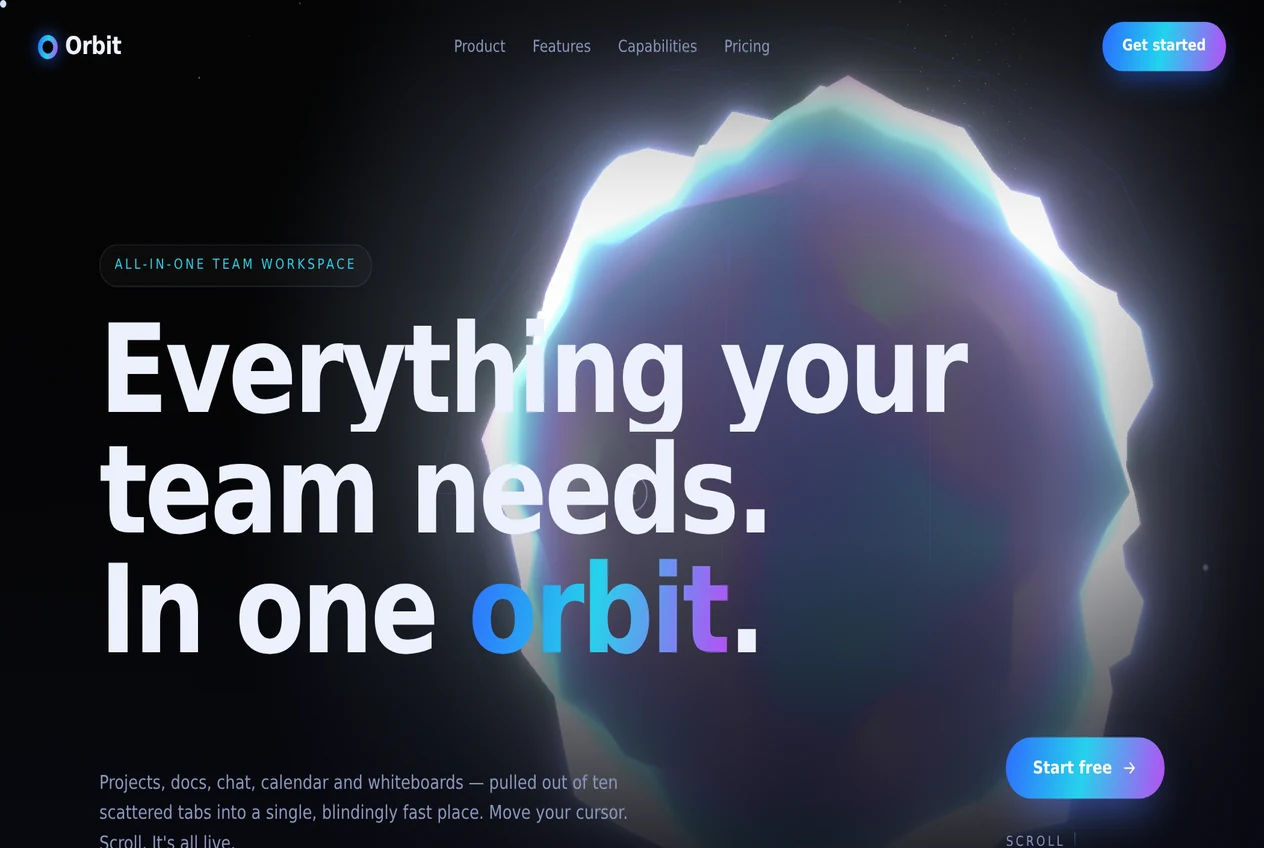
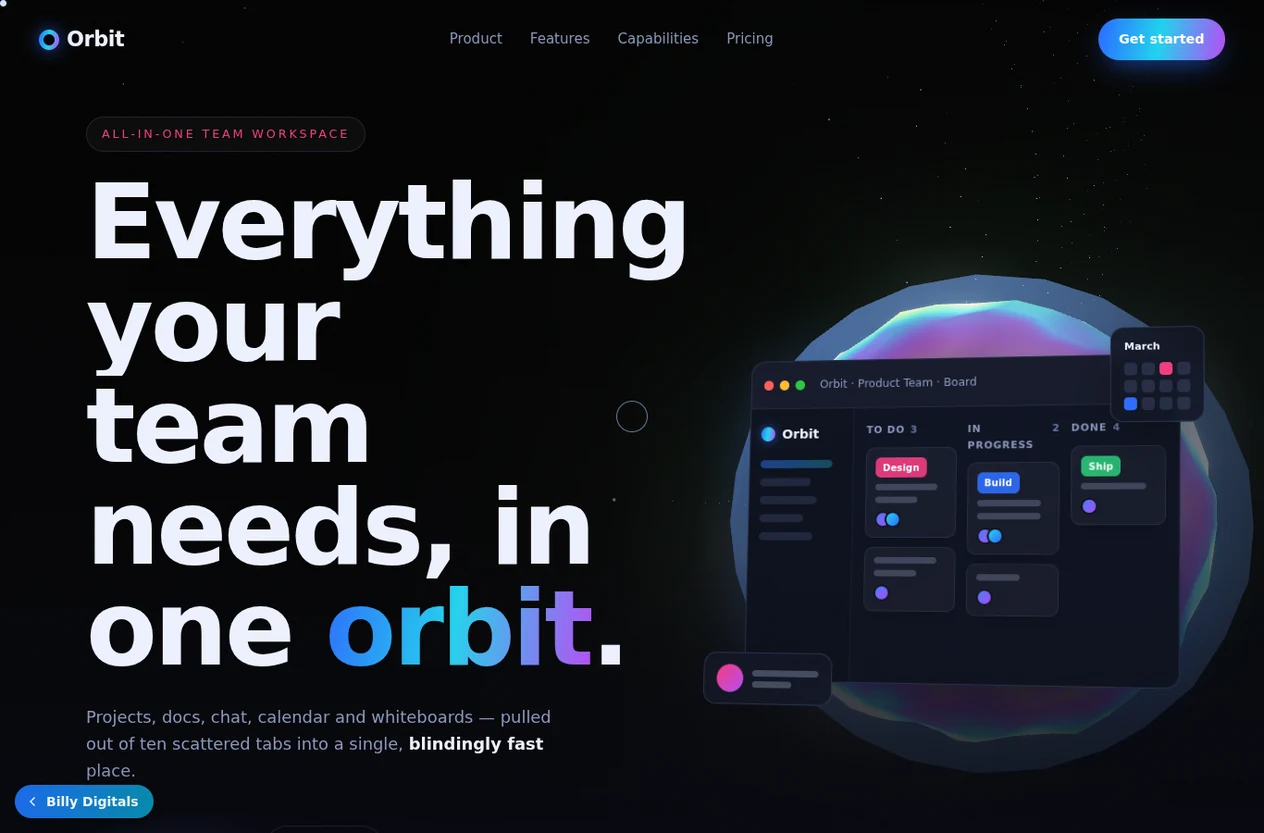
ORBIT hero rebuilt Huly-caliber: pixel-perfect floating product UI (kanban + calendar + chat), magenta accent, 3D core dimmed to ambient product-glow, antialiased

diff --git a/templates/orbit.css b/templates/orbit.css
@@ -5,7 +5,7 @@
 :root{
   --bg:#05060e; --bg2:#080a16; --ink:#eef2ff; --mut:#8a97bd;
   --line:rgba(140,170,255,.14); --card:rgba(255,255,255,.035);
-  --c1:#2b6bff; --c2:#22d3ee; --c3:#b74bf5;
+  --c1:#2b6bff; --c2:#22d3ee; --c3:#b74bf5; --accent:#f5397e;
   --grad:linear-gradient(100deg,var(--c1),var(--c2) 48%,var(--c3));
   --disp:'Space Grotesk',system-ui,sans-serif; --body:'Inter',system-ui,sans-serif;
   --r:18px;
@@ -410,3 +410,94 @@ body::before{content:"";position:fixed;inset:0;z-index:-1;pointer-events:none;
 .orbit-gl{ z-index:1 }        /* the Core sits above the aurora */
 .hero-scrim, .hero-inner{ z-index:2 }
 @media (prefers-reduced-motion:reduce){ .hero::after{ animation:none } }
+
+/* ============================================================
+   HERO REBUILD — Huly-caliber: pixel-perfect product UI lead,
+   magenta accent, refined split layout. The 3D Core is now a
+   quiet ambient glow behind, not a dominating blob.
+   ============================================================ */
+.hero-split{ display:grid; grid-template-columns:1.02fr 1.15fr; align-items:center; gap:clamp(24px,4vw,64px);
+  padding-top:14vh; padding-bottom:8vh; }
+.hero-copy{ position:relative; z-index:3; }
+.hero-eyebrow{ color:var(--accent) !important; }
+.hero-sub{ margin-top:26px; max-width:30em; color:var(--mut); font-size:1.12rem; opacity:0; }
+.hero-sub b{ color:var(--ink); font-weight:600; }
+.hero-actions{ display:flex; align-items:center; gap:16px; margin-top:30px; opacity:0; }
+.hero-ghost{ font-family:var(--disp); font-weight:600; font-size:.95rem; color:var(--ink);
+  padding:13px 22px; border-radius:999px; border:1px solid var(--line); transition:border-color .25s,background .25s; }
+.hero-ghost:hover{ border-color:rgba(160,190,255,.5); background:rgba(255,255,255,.04); }
+.hero-meta{ margin-top:26px; font-size:.9rem; color:var(--mut); display:flex; align-items:center; gap:8px; opacity:0; }
+.hero-meta svg{ width:16px; height:16px; color:#ffd23d; }
+.hero-meta b{ color:var(--ink); font-weight:700; }
+/* keep the intro reveal working: fade these in with the h1 lines */
+.is-in .hero-sub, .is-in .hero-actions, .is-in .hero-meta{ opacity:1; transition:opacity .8s ease .3s; }
+.hero-split .scroll-cue{ position:absolute; left:0; bottom:5vh; z-index:3; }
+
+/* --- the floating pixel-perfect UI --- */
+.hero-ui{ position:relative; z-index:3; perspective:1600px; }
+.hui-win{ position:relative; border-radius:16px; overflow:hidden;
+  background:linear-gradient(180deg,#0c1122,#0a0e1c);
+  border:1px solid rgba(150,180,255,.16);
+  box-shadow:0 50px 120px -40px rgba(0,0,0,.9), 0 0 0 1px rgba(255,255,255,.02) inset,
+             0 0 90px -30px rgba(43,107,255,.5);
+  transform:rotateY(-11deg) rotateX(5deg) rotateZ(.4deg); transform-style:preserve-3d;
+  animation:huiFloat 7s ease-in-out infinite; }
+@keyframes huiFloat{ 0%,100%{ transform:rotateY(-11deg) rotateX(5deg) translateY(0) }
+  50%{ transform:rotateY(-8deg) rotateX(4deg) translateY(-12px) } }
+.hui-bar{ display:flex; align-items:center; gap:7px; padding:12px 14px;
+  background:rgba(255,255,255,.03); border-bottom:1px solid rgba(150,180,255,.1); }
+.hui-bar i{ width:11px; height:11px; border-radius:50%; }
+.hui-bar i:nth-child(1){ background:#ff5f57 } .hui-bar i:nth-child(2){ background:#febc2e } .hui-bar i:nth-child(3){ background:#28c840 }
+.hui-crumb{ margin-left:10px; font-size:.78rem; color:var(--mut); }
+.hui-k{ margin-left:auto; font-size:.72rem; color:var(--mut); padding:4px 9px; border-radius:7px;
+  border:1px solid var(--line); background:rgba(255,255,255,.03); }
+.hui-body{ display:grid; grid-template-columns:118px 1fr; min-height:300px; }
+.hui-side{ padding:16px 12px; border-right:1px solid rgba(150,180,255,.08); display:flex; flex-direction:column; gap:11px; background:rgba(0,0,0,.14); }
+.hui-brand{ display:flex; align-items:center; gap:8px; font-family:var(--disp); font-weight:700; font-size:.92rem; margin-bottom:6px; }
+.hui-brand b{ width:16px; height:16px; border-radius:50%; background:var(--grad); box-shadow:0 0 12px rgba(43,107,255,.7); }
+.hui-nav{ height:9px; border-radius:5px; background:rgba(160,185,255,.13); }
+.hui-nav:nth-child(2){ width:78% } .hui-nav:nth-child(3){ width:62% } .hui-nav:nth-child(4){ width:70% } .hui-nav:nth-child(5){ width:54% } .hui-nav:nth-child(6){ width:66% }
+.hui-nav.on{ width:88%; background:linear-gradient(90deg,rgba(43,107,255,.5),rgba(34,211,238,.3)); }
+.hui-board{ display:grid; grid-template-columns:repeat(3,1fr); gap:12px; padding:16px 14px; }
+.hui-col h6{ font-size:.68rem; text-transform:uppercase; letter-spacing:.08em; color:var(--mut); font-weight:700; margin-bottom:10px; display:flex; gap:6px; }
+.hui-col h6 span{ color:rgba(160,185,255,.6); }
+.hui-card{ background:rgba(255,255,255,.045); border:1px solid rgba(150,180,255,.1); border-radius:10px;
+  padding:10px; margin-bottom:10px; display:flex; flex-direction:column; gap:7px;
+  box-shadow:0 8px 20px -12px rgba(0,0,0,.7); }
+.ct{ align-self:flex-start; font-size:.64rem; font-weight:700; padding:3px 8px; border-radius:6px; color:#fff; letter-spacing:.02em; }
+.ct.pink{ background:rgba(245,57,126,.9) } .ct.blue{ background:rgba(43,107,255,.9) } .ct.green{ background:rgba(40,200,120,.9) }
+.cl{ height:7px; border-radius:4px; background:rgba(200,215,255,.22); }
+.cl.s{ width:60% } .cl:not(.s){ width:88% }
+.cav{ display:flex; margin-top:2px; }
+.cav i{ width:18px; height:18px; border-radius:50%; border:2px solid #0b0f1e; background:linear-gradient(135deg,#4b7bff,#a24bf5); }
+.cav i+i{ margin-left:-7px; background:linear-gradient(135deg,#22d3ee,#2b6bff); }
+/* floating cards for depth */
+.hui-float{ position:absolute; border-radius:14px; padding:12px 14px;
+  background:rgba(14,18,34,.92); border:1px solid rgba(150,180,255,.18);
+  box-shadow:0 30px 70px -24px rgba(0,0,0,.9); backdrop-filter:blur(8px); z-index:4; }
+.hui-cal{ right:-6%; top:-7%; animation:huiFloat 6s ease-in-out infinite .4s; }
+.fl-h{ display:block; font-size:.7rem; font-weight:700; color:var(--ink); margin-bottom:8px; }
+.fl-grid{ display:grid; grid-template-columns:repeat(4,1fr); gap:5px; }
+.fl-grid i{ width:14px; height:14px; border-radius:4px; background:rgba(160,185,255,.14); }
+.fl-grid i.on{ background:var(--accent) } .fl-grid i.on2{ background:var(--c1) }
+.hui-chat{ left:-9%; bottom:-6%; display:flex; align-items:center; gap:10px; animation:huiFloat 6.6s ease-in-out infinite .9s; }
+.fl-av{ width:30px; height:30px; border-radius:50%; background:linear-gradient(135deg,#f5397e,#b74bf5); flex:0 0 auto; }
+.fl-lines{ display:flex; flex-direction:column; gap:5px; }
+.fl-lines span{ height:7px; width:74px; border-radius:4px; background:rgba(200,215,255,.28); }
+.fl-lines span.sm{ width:44px; }
+
+@media (prefers-reduced-motion:reduce){ .hui-win,.hui-float{ animation:none } }
+@media (max-width:960px){
+  .hero-split{ grid-template-columns:1fr; padding-top:15vh; gap:38px; }
+  .hero-ui{ max-width:520px; margin:0 auto; }
+  .hui-win{ transform:rotateY(-6deg) rotateX(3deg); }
+  .hero-split .scroll-cue{ display:none; }
+}
+@media (max-width:640px){
+  .hero h1{ font-size:clamp(2rem,9vw,2.7rem); }
+  .hero-sub{ font-size:1.02rem; }
+}
+@media (max-width:520px){
+  .hui-cal{ right:-2%; top:-5% } .hui-chat{ left:-2%; bottom:-4% }
+  .hui-body{ grid-template-columns:96px 1fr; min-height:260px; }
+}

diff --git a/templates/orbit.js b/templates/orbit.js
@@ -24,7 +24,7 @@ import { OutputPass } from "./vendor/jsm/postprocessing/OutputPass.js";
 
   var renderer;
   try {
-    renderer = new THREE.WebGLRenderer({ canvas: canvas, antialias: false, alpha: true, powerPreference: "high-performance" });
+    renderer = new THREE.WebGLRenderer({ canvas: canvas, antialias: true, alpha: true, powerPreference: "high-performance" });
   } catch (e) { canvas.style.display = "none"; return; }
   renderer.setPixelRatio(Math.min(window.devicePixelRatio || 1, mobile ? 1.1 : 1.6));
   canvas.addEventListener("webglcontextlost", function (e) { e.preventDefault(); canvas.style.display = "none"; }, false);
@@ -60,31 +60,42 @@ import { OutputPass } from "./vendor/jsm/postprocessing/OutputPass.js";
   ].join("\n");
 
   var uniforms = {
-    uTime: { value: 0 }, uAmp: { value: 0.34 }, uProg: { value: 0 },
+    uTime: { value: 0 }, uAmp: { value: 0.17 }, uProg: { value: 0 },
     uMouse: { value: new THREE.Vector3(0, 0, 1) }
   };
 
+  // Gentle, flowing displacement — a smooth breathing organism, not a spiky rock.
   var vert = [
     "uniform float uTime; uniform float uAmp; uniform vec3 uMouse; uniform float uProg;",
     "varying vec3 vN; varying vec3 vView; varying float vD;",
     noiseGLSL,
+    "float fbm(vec3 p){",
+    "  float f = snoise(p*1.1 + vec3(0.0, uTime*0.18, 0.0)) * 0.55;",
+    "  f += snoise(p*2.3 - uTime*0.14) * 0.30;",
+    "  f += snoise(p*4.6 + uTime*0.10) * 0.15;",
+    "  return f;",
+    "}",
     "void main(){",
     "  vec3 p = position;",
-    "  float n  = snoise(p*1.3 + vec3(0.0, uTime*0.28, 0.0));",
-    "  float n2 = snoise(p*2.7 - uTime*0.22);",
-    "  float n3 = snoise(p*5.5 + uTime*0.15);",
-    "  float disp = (n*0.62 + n2*0.26 + n3*0.10) * (uAmp + uProg*0.5);",
+    "  float disp = fbm(p) * (uAmp + uProg*0.28);",
     "  float md = distance(normalize(p), normalize(uMouse));",
-    "  disp += (0.5/(1.0+md*md*7.0)) * uAmp;",   // pointer bulge
+    "  disp += (0.32/(1.0+md*md*10.0)) * uAmp;",   // soft pointer swell
     "  vec3 np = p + normal * disp;",
     "  vD = disp;",
-    "  vN = normalize(normalMatrix * normal);",
+    // perturb the normal a touch so highlights follow the surface flow (smoothly)
+    "  vec3 t1 = normalize(cross(normal, vec3(0.0,1.0,0.0) + 1e-4));",
+    "  vec3 t2 = normalize(cross(normal, t1));",
+    "  float e = 0.35;",
+    "  float da = fbm(p + t1*e) * uAmp, db = fbm(p + t2*e) * uAmp;",
+    "  vec3 pn = normalize(normal - (t1*(da-disp) + t2*(db-disp)) / e * 0.6);",
+    "  vN = normalize(normalMatrix * pn);",
     "  vec4 mv = modelViewMatrix * vec4(np,1.0);",
     "  vView = -mv.xyz;",
     "  gl_Position = projectionMatrix * mv;",
     "}"
   ].join("\n");
 
+  // Luminous iridescent pearl — the whole body glows, not just the rim.
   var frag = [
     "precision highp float;",
     "uniform float uTime;",
@@ -92,26 +103,38 @@ import { OutputPass } from "./vendor/jsm/postprocessing/OutputPass.js";
     "vec3 pal(float t){ return 0.5 + 0.5*cos(6.28318*(t + vec3(0.00,0.33,0.67))); }",
     "void main(){",
     "  vec3 V = normalize(vView); vec3 N = normalize(vN);",
-    "  float fres = pow(1.0 - max(dot(V,N),0.0), 2.6);",
-    "  float t = fres*1.15 + vD*1.7 + uTime*0.05;",
-    "  vec3 irid = pal(t);",
-    "  irid = mix(irid, vec3(0.20,0.55,1.0), 0.35);",       // bias toward alien blue
-    "  vec3 col = mix(vec3(0.02,0.03,0.08), irid*0.7, clamp(fres*1.15+0.10,0.0,1.0));",
-    "  col += fres * vec3(0.30,0.52,0.95) * 0.55;",          // subtle glowing rim (bloom catches this)
-    "  col += pow(fres,5.0) * vec3(0.8,0.7,1.1) * 0.5;",     // hot violet edge, tamed
+    "  float ndv = max(dot(V,N), 0.0);",
+    "  float fres = pow(1.0 - ndv, 2.2);",
+    "  float t = fres*0.85 + vD*2.4 + uTime*0.04;",
+    "  vec3 irid = pal(t);",                                  // full-spectrum thin film across the body
+    "  vec3 body = mix(vec3(0.05,0.08,0.20), irid, 0.40);",   // colourful but restrained base
+    "  vec3 col = mix(body, irid, clamp(fres*1.0, 0.0, 1.0));",
+    "  float key = clamp(dot(N, normalize(vec3(0.35,0.75,0.55))), 0.0, 1.0);",
+    "  col += pow(key, 3.0) * vec3(0.45,0.65,1.0) * 0.16;",   // soft directional sheen
+    "  col += fres * vec3(0.30,0.55,1.0) * 0.45;",            // gentle rim
+    "  col += pow(fres, 4.0) * vec3(0.9,0.8,1.15) * 0.38;",   // faint iridescent edge
+    "  col *= 0.82;",                                          // overall calm — ambient, not a spotlight
     "  gl_FragColor = vec4(col, 1.0);",
     "}"
   ].join("\n");
 
-  var geo = new THREE.IcosahedronGeometry(1.55, mobile ? 5 : 7);
+  var geo = new THREE.IcosahedronGeometry(1.5, mobile ? 6 : 7);
   var mat = new THREE.ShaderMaterial({ uniforms: uniforms, vertexShader: vert, fragmentShader: frag });
   var core = new THREE.Mesh(geo, mat);
-  var group = new THREE.Group(); group.add(core); group.position.x = 1.15; scene.add(group);
+  var group = new THREE.Group(); group.add(core); scene.add(group);
+  // ambient depth only — a quiet glow behind the headline, never competing with the product UI
+  group.position.x = mobile ? 0.15 : 1.5;    // behind the product UI, not on the headline
+  group.position.y = mobile ? -0.35 : -0.1;
+  group.scale.setScalar(mobile ? 0.46 : 0.62);
 
-  // faint outer glow shell
+  // soft atmospheric halo (smooth additive glow — replaces the old wireframe shell)
   var shell = new THREE.Mesh(
-    new THREE.IcosahedronGeometry(1.9, 2),
-    new THREE.MeshBasicMaterial({ color: 0x2b6bff, transparent: true, opacity: 0.05, blending: THREE.AdditiveBlending, wireframe: true })
+    new THREE.IcosahedronGeometry(1.72, 4),
+    new THREE.ShaderMaterial({
+      transparent: true, blending: THREE.AdditiveBlending, depthWrite: false, side: THREE.BackSide,
+      vertexShader: "varying vec3 vN; varying vec3 vV; void main(){ vN=normalize(normalMatrix*normal); vec4 mv=modelViewMatrix*vec4(position,1.0); vV=-mv.xyz; gl_Position=projectionMatrix*mv; }",
+      fragmentShader: "precision highp float; varying vec3 vN; varying vec3 vV; void main(){ float f=pow(1.0-max(dot(normalize(vV),normalize(vN)),0.0),2.6); gl_FragColor=vec4(vec3(0.20,0.44,1.0)*f, f*0.32); }"
+    })
   );
   group.add(shell);
 
@@ -140,9 +163,11 @@ import { OutputPass } from "./vendor/jsm/postprocessing/OutputPass.js";
   // ---------- bloom (desktop only) ----------
   var composer = null, bloom = null;
   if (!mobile) {
-    composer = new EffectComposer(renderer);
+    var db = renderer.getDrawingBufferSize(new THREE.Vector2());
+    var rt = new THREE.WebGLRenderTarget(db.x, db.y, { samples: 4, type: THREE.HalfFloatType });
+    composer = new EffectComposer(renderer, rt);
     composer.addPass(new RenderPass(scene, camera));
-    bloom = new UnrealBloomPass(new THREE.Vector2(W, H), 0.5, 0.6, 0.4);
+    bloom = new UnrealBloomPass(new THREE.Vector2(W, H), 0.34, 0.75, 0.72);
     composer.addPass(bloom);
     composer.addPass(new OutputPass());
   }

diff --git a/templates/orbit.html b/templates/orbit.html
@@ -39,22 +39,59 @@
   <section class="hero" id="top">
     <canvas class="orbit-gl" id="orbit-gl" aria-hidden="true"></canvas>
     <div class="hero-scrim" aria-hidden="true"></div>
-    <div class="hero-inner">
-      <p class="hero-eyebrow eyebrow">All-in-one team workspace</p>
-      <h1>
-        <span class="ln"><span>Everything your</span></span>
-        <span class="ln"><span>team needs.</span></span>
-        <span class="ln"><span>In one <em>orbit</em>.</span></span>
-      </h1>
-      <div class="hero-foot">
-        <p>Projects, docs, chat, calendar and whiteboards — pulled out of ten scattered tabs into a single, blindingly fast place. Move your cursor. Scroll. It's all live.</p>
-        <div>
+    <div class="hero-inner hero-split">
+      <div class="hero-copy">
+        <p class="hero-eyebrow eyebrow">All-in-one team workspace</p>
+        <h1>
+          <span class="ln"><span>Everything your</span></span>
+          <span class="ln"><span>team needs, in</span></span>
+          <span class="ln"><span>one <em>orbit</em>.</span></span>
+        </h1>
+        <p class="hero-sub">Projects, docs, chat, calendar and whiteboards — pulled out of ten scattered tabs into a single, <b>blindingly fast</b> place.</p>
+        <div class="hero-actions">
           <a class="hero-cta magnetic" href="#join">Start free
             <svg viewBox="0 0 24 24" fill="none" stroke="currentColor" stroke-width="2" stroke-linecap="round" stroke-linejoin="round"><path d="M5 12h14M13 6l6 6-6 6"/></svg>
           </a>
-          <div style="margin-top:22px"><span class="scroll-cue">Scroll <i></i></span></div>
+          <a class="hero-ghost" href="#product">See it live</a>
+        </div>
+        <p class="hero-meta"><svg viewBox="0 0 24 24" fill="currentColor" aria-hidden="true"><path d="M12 .5l3.09 6.26L22 7.77l-5 4.87 1.18 6.88L12 16.26 5.82 19.52 7 12.64 2 7.77l6.91-1.01z"/></svg> <b>26,887</b> stars on GitHub · Open source</p>
+      </div>
+
+      <!-- pixel-perfect floating product UI -->
+      <div class="hero-ui" data-heroui aria-hidden="true">
+        <div class="hui-win">
+          <div class="hui-bar"><i></i><i></i><i></i><span class="hui-crumb">Orbit · Product Team · Board</span><span class="hui-k">⌘K</span></div>
+          <div class="hui-body">
+            <div class="hui-side">
+              <span class="hui-brand"><b></b>Orbit</span>
+              <span class="hui-nav on"></span><span class="hui-nav"></span><span class="hui-nav"></span><span class="hui-nav"></span><span class="hui-nav"></span>
+            </div>
+            <div class="hui-board">
+              <div class="hui-col"><h6>To do <span>3</span></h6>
+                <div class="hui-card"><span class="ct pink">Design</span><span class="cl"></span><span class="cl s"></span><span class="cav"><i></i><i></i></span></div>
+                <div class="hui-card"><span class="cl"></span><span class="cl s"></span><span class="cav"><i></i></span></div>
+              </div>
+              <div class="hui-col"><h6>In progress <span>2</span></h6>
+                <div class="hui-card"><span class="ct blue">Build</span><span class="cl"></span><span class="cl"></span><span class="cav"><i></i><i></i></span></div>
+                <div class="hui-card"><span class="cl s"></span><span class="cav"><i></i></span></div>
+              </div>
+              <div class="hui-col"><h6>Done <span>4</span></h6>
+                <div class="hui-card"><span class="ct green">Ship</span><span class="cl"></span><span class="cav"><i></i></span></div>
+              </div>
+            </div>
+          </div>
+        </div>
+        <div class="hui-float hui-cal">
+          <span class="fl-h">March</span>
+          <span class="fl-grid"><i></i><i></i><i class="on"></i><i></i><i></i><i></i><i></i><i></i><i class="on2"></i><i></i><i></i><i></i></span>
+        </div>
+        <div class="hui-float hui-chat">
+          <span class="fl-av"></span>
+          <span class="fl-lines"><span></span><span class="sm"></span></span>
         </div>
       </div>
+
+      <span class="scroll-cue" aria-hidden="true">Scroll <i></i></span>
     </div>
   </section>
 

diff --git a/templates/atelier.js b/templates/atelier.js
@@ -67,7 +67,7 @@
 
   if (!hasGSAP || reduce) {
     // Static fallback: reveal everything.
-    document.querySelectorAll("[data-fade],.hero-eyebrow,.hero-foot p").forEach(function (el) { el.style.opacity = 1; el.style.transform = "none"; });
+    document.querySelectorAll("[data-fade],.hero-eyebrow,.hero-foot p,.hero-sub,.hero-actions,.hero-meta,.hero-ui").forEach(function (el) { el.style.opacity = 1; el.style.transform = "none"; });
     document.querySelectorAll(".hero h1 .ln > span").forEach(function (el) { el.style.transform = "none"; });
     document.querySelectorAll(".manifesto .word").forEach(function (el) { el.classList.add("on"); });
     var l0 = document.querySelector(".loader"); if (l0) l0.style.display = "none";
@@ -111,7 +111,8 @@
     var tl = gsap.timeline({ defaults: { ease: "power4.out" } });
     tl.from(".hero h1 .ln > span", { yPercent: 115, duration: 1.1, stagger: 0.08 }, 0)
       .to(".hero-eyebrow", { opacity: 1, y: 0, duration: 0.8 }, 0.3)
-      .to(".hero-foot p", { opacity: 1, duration: 0.9 }, 0.6)
+      .to(".hero-sub, .hero-actions, .hero-meta", { opacity: 1, duration: 0.9, stagger: 0.12 }, 0.55)
+      .from(".hero-ui", { opacity: 0, y: 40, scale: 0.94, duration: 1.2, ease: "power3.out" }, 0.35)
       .from(".scroll-cue", { opacity: 0, duration: 0.8 }, 0.7);
     ScrollTrigger.refresh();
   });